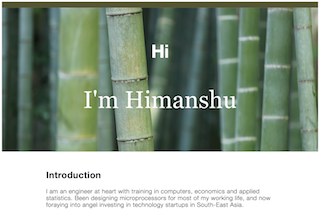
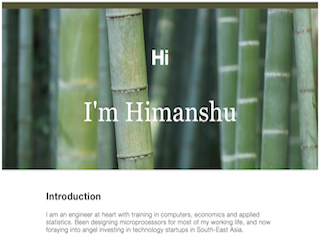
1) Changed width x height of images; 2) modified content in index.html

diff --git a/index.html b/index.html
@@ -58,7 +58,7 @@
           <div class="col-md-4">
             <img src="img/about_me.png" class="demo">
             <h2>About Me</h2>
-            <p>One of the first projects I did at Thinkful buidling an about-me
+            <p>The first project I did at Thinkful buidling an about-me
               page. This was exhilarating putting something together for the
               first time.</p>
             <a href="https://hsharma74.github.io/about-me/index.html" target="_blank" class="btn btn-default">Read More</a>
@@ -67,7 +67,7 @@
           <div class="col-md-4">
             <img src="img/thinkfultube.png" class="demo">
             <h2>Thinkful Tube</h2>
-            <p>A taste of AJAX and using third-party APIs. This is a stripped-down version of YouTube. The app uses the YouTube API, and provides the power and simplicity of using APIs. </p>
+            <p>A stripped-down version of YouTube. A taste of AJAX and using third-party APIs. The simplicity and power of using APIs - YouTube API in this case. </p>
             <a href="https://hsharma74.github.io/thinkful-tube/index.html" target="_blank" class="btn btn-default">Read More</a>
           </div>
 
@@ -86,7 +86,7 @@
             <img src="img/hot_or_cold.png" class="demo">
             <h2>Hot-or-Cold</h2>
             <p>More jQuery. This time a very cool guess-the-number game with hints. All client-side code in jQuery, with functionality in javascript. </p>
-            <a href="https://hsharma74.github.io/hot-or-cold/index.html" target="_blank" class="btn btn-default">Read More</a>
+            <a href="https://hsharma74.github.io/hot-or-cold-starter/index.html" target="_blank" class="btn btn-default">Read More</a>
           </div>
 
           <div class="col-md-4">
@@ -101,7 +101,7 @@
 
           <div class="col-md-4">
             <img src="img/stackAJAX.png" class="demo">
-            <h2>StackExch: Reputation Builder</h2>
+            <h2>Reputation Builder</h2>
             <p>More AJAX workout, this time with using the Stackoverflow API and buildign a simple app that lets one find questions that have not yet been answered.</p>
             <a href="https://hsharma74.github.io/stackerAJAX2/index.html" target="_blank"  class="btn btn-default">Read More</a>
           </div>

diff --git a/css/style.css b/css/style.css
@@ -14,6 +14,13 @@ section {
 	padding: 40px 0 40px 0;
 }
 
+
+
+
+#middle .row {
+	margin-top: 50px;
+}
+
 .jumbotron {
 	background: #1b222a url(../img/site_showcase_bg.png) no-repeat top center;
 	color: white;
@@ -40,7 +47,11 @@ section {
 
 img.demo {
 	/* margin-top: 20px; */
+	/*width: 100%;
+	height: 100%;*/
 	width: 100%;
+	height: 100%;
+	overflow: hidden;
 	padding: 3px;
 	border: 1px solid #ccc;
 }
